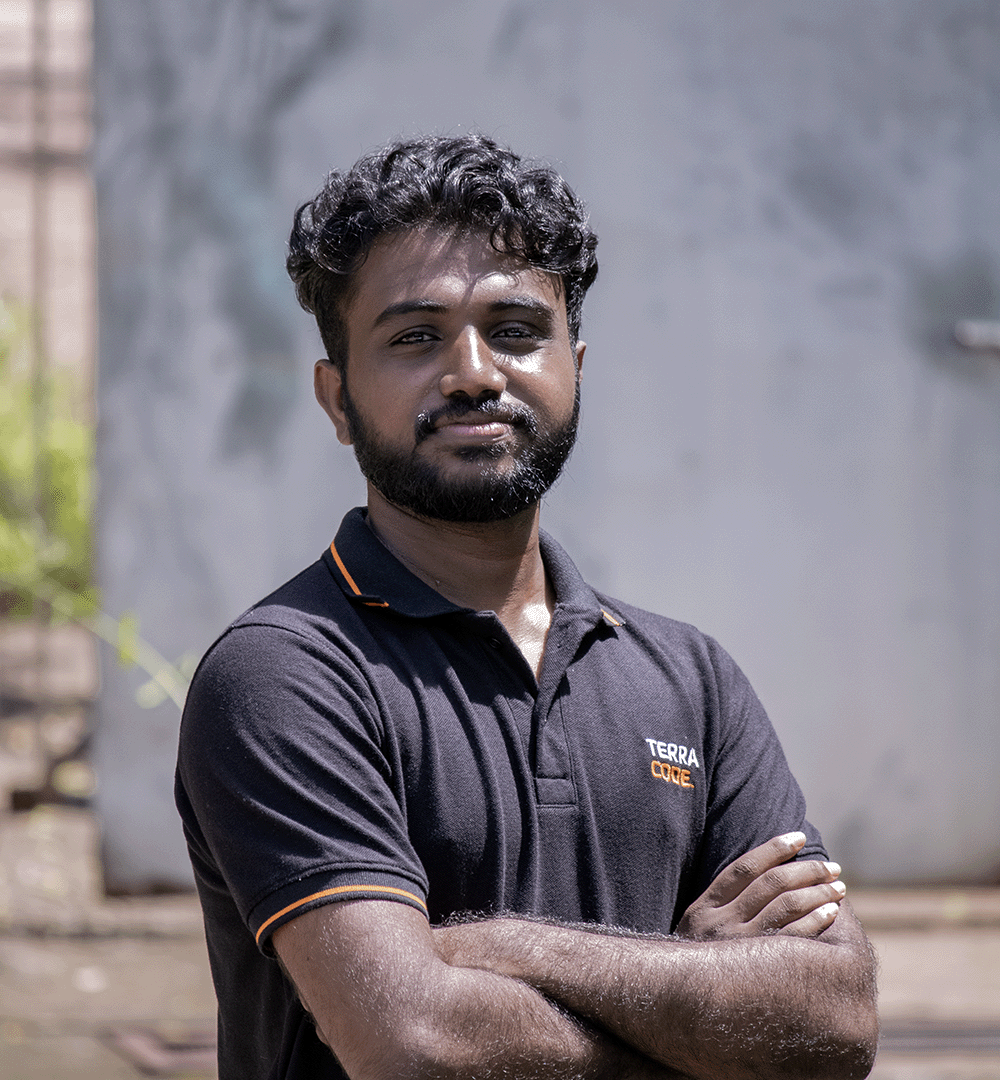
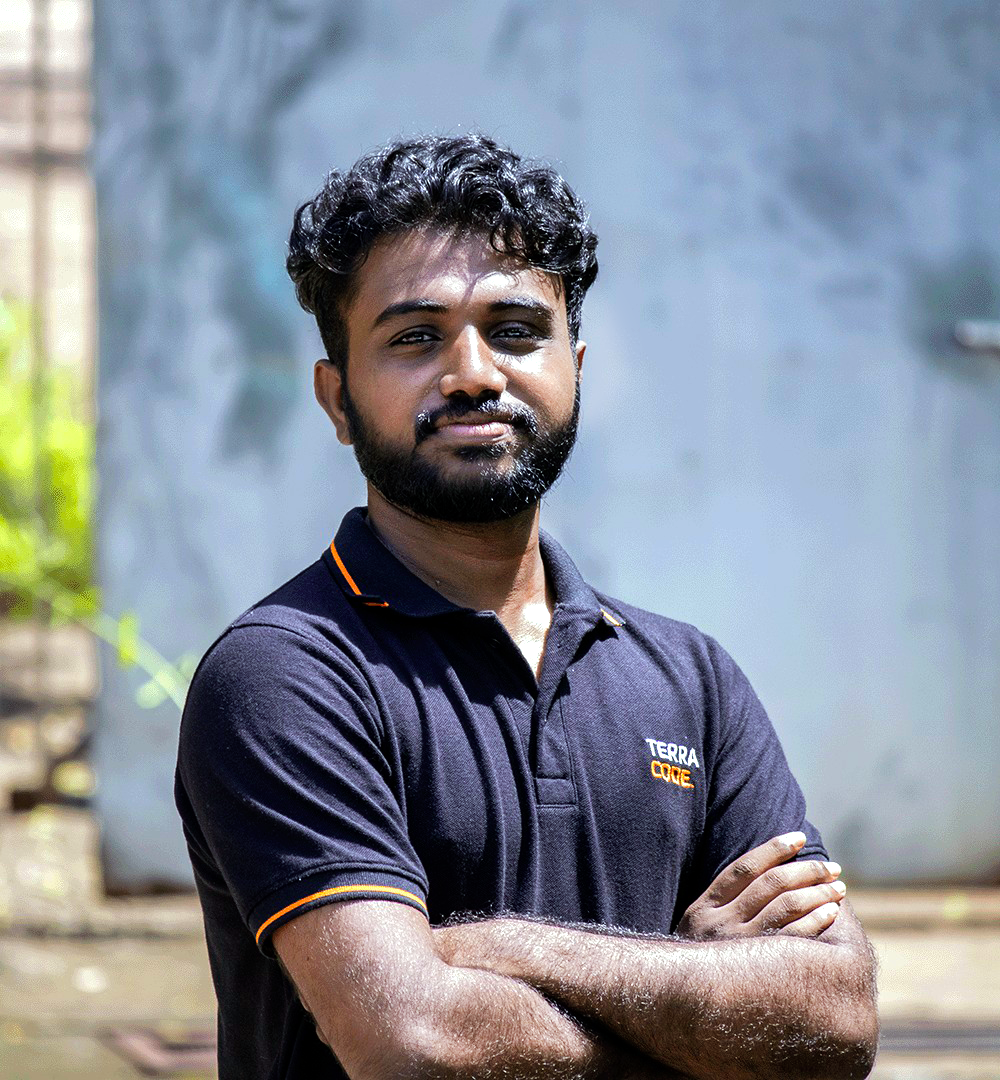
fixed pdf issues

diff --git a/src/components/pdfx/PaymentReceipt.tsx b/src/components/pdfx/PaymentReceipt.tsx
@@ -14,7 +14,24 @@ const styles = StyleSheet.create({
     color: '#1a1a1a',
     fontSize: 10,
     fontFamily: 'Helvetica',
+    position: 'relative',
   },
+
+  // 🔥 WATERMARK
+  watermark: {
+    position: 'absolute',
+    top: '30%',
+    left: '5%',
+    transform: 'rotate(-45deg)',
+    fontSize: 150,
+    color: '#000000',
+    opacity: 0.05,
+    fontWeight: 'bold',
+    zIndex: 0,
+    width: '100%',
+    textAlign: 'center',
+  },
+
   header: {
     flexDirection: 'row',
     justifyContent: 'space-between',
@@ -24,12 +41,15 @@ const styles = StyleSheet.create({
     borderBottomColor: '#f0f0f0',
     paddingBottom: 20,
   },
+
   logo: {
     width: 80,
   },
+
   headerRight: {
     alignItems: 'flex-end',
   },
+
   title: {
     fontSize: 28,
     color: '#1a1a1a',
@@ -37,16 +57,19 @@ const styles = StyleSheet.create({
     letterSpacing: 1,
     marginBottom: 4,
   },
+
   invoiceNumber: {
     fontSize: 11,
     color: '#FDA10A',
     fontWeight: 'bold',
   },
+
   billToSection: {
     flexDirection: 'row',
     justifyContent: 'space-between',
     marginBottom: 40,
   },
+
   sectionTitle: {
     fontSize: 9,
     fontWeight: 'bold',
@@ -55,12 +78,15 @@ const styles = StyleSheet.create({
     textTransform: 'uppercase',
     letterSpacing: 1,
   },
+
   billToBox: {
     width: '50%',
   },
+
   detailsBox: {
     width: '40%',
   },
+
   infoRow: {
     flexDirection: 'row',
     justifyContent: 'space-between',
@@ -69,19 +95,23 @@ const styles = StyleSheet.create({
     borderBottomColor: '#f0f0f0',
     paddingBottom: 2,
   },
+
   infoLabel: {
     color: '#666666',
     fontSize: 9,
   },
+
   infoValue: {
     fontWeight: 'bold',
     color: '#1a1a1a',
     fontSize: 9,
   },
-  // Table Styles
+
+  // Table
   table: {
     marginTop: 10,
   },
+
   tableHeader: {
     flexDirection: 'row',
     backgroundColor: '#f8f8f8',
@@ -90,12 +120,14 @@ const styles = StyleSheet.create({
     alignItems: 'center',
     height: 30,
   },
+
   tableHeaderText: {
     fontSize: 9,
     fontWeight: 'bold',
     color: '#666666',
     textTransform: 'uppercase',
   },
+
   tableRow: {
     flexDirection: 'row',
     borderBottomWidth: 0.5,
@@ -103,51 +135,41 @@ const styles = StyleSheet.create({
     alignItems: 'center',
     minHeight: 40,
   },
+
   colDescription: {
     width: '75%',
     paddingLeft: 10,
   },
+
   colAmount: {
     width: '25%',
     textAlign: 'right',
     paddingRight: 10,
   },
+
   itemTitle: {
     fontWeight: 'bold',
     fontSize: 10,
     marginBottom: 2,
   },
-  // Summary Styles
+
+  // Summary
   summaryContainer: {
     marginTop: 30,
     flexDirection: 'row',
     justifyContent: 'space-between',
   },
-  statusBox: {
-    width: '40%',
-    justifyContent: 'center',
-  },
-  paidBadge: {
-    borderWidth: 2,
-    borderColor: '#22c55e',
-    color: '#22c55e',
-    padding: 8,
-    borderRadius: 4,
-    fontSize: 14,
-    fontWeight: 'bold',
-    textAlign: 'center',
-    textTransform: 'uppercase',
-    width: 100,
-    opacity: 0.8,
-  },
+
   summaryBox: {
     width: '40%',
   },
+
   summaryRow: {
     flexDirection: 'row',
     justifyContent: 'space-between',
     paddingVertical: 4,
   },
+
   totalRow: {
     flexDirection: 'row',
     justifyContent: 'space-between',
@@ -156,15 +178,18 @@ const styles = StyleSheet.create({
     borderTopColor: '#1a1a1a',
     marginTop: 10,
   },
+
   totalLabel: {
     fontSize: 12,
     fontWeight: 'bold',
   },
+
   totalValue: {
     fontSize: 14,
     fontWeight: 'bold',
     color: '#1a1a1a',
   },
+
   footer: {
     position: 'absolute',
     bottom: 50,
@@ -177,6 +202,7 @@ const styles = StyleSheet.create({
     color: '#999999',
     fontSize: 8,
   },
+
   companyLine: {
     color: '#666666',
     fontSize: 9,
@@ -218,34 +244,45 @@ export const PaymentReceipt = ({
   return (
     <Document title={`Invoice - ${orderId}`}>
       <Page size="A4" style={styles.page}>
-        
+
+        {/* 🔥 WATERMARK */}
+        <Text style={styles.watermark}>PAID</Text>
+
         {/* Header */}
         <View style={styles.header}>
           <Image src="/logo.png" style={styles.logo} />
           <View style={styles.headerRight}>
             <Text style={styles.title}>INVOICE</Text>
-            <Text style={styles.invoiceNumber}>NO: {orderId ?? '—'}</Text>
+            <Text style={styles.invoiceNumber}>
+              NO: {orderId ?? '—'}
+            </Text>
           </View>
         </View>
 
-        {/* Bill To & Invoice Info */}
+        {/* Bill To */}
         <View style={styles.billToSection}>
           <View style={styles.billToBox}>
             <Text style={styles.sectionTitle}>Bill To</Text>
-            <Text style={{ fontWeight: 'bold', fontSize: 11, marginBottom: 4 }}>{customerName ?? 'Valued Customer'}</Text>
-            {companyName && <Text style={{ marginBottom: 2, color: '#444444' }}>{companyName}</Text>}
-            <Text style={{ color: '#666666' }}>{customerEmail ?? '—'}</Text>
+            <Text style={{ fontWeight: 'bold', fontSize: 11 }}>
+              {customerName ?? 'Valued Customer'}
+            </Text>
+            {companyName && <Text>{companyName}</Text>}
+            <Text>{customerEmail ?? '—'}</Text>
           </View>
+
           <View style={styles.detailsBox}>
             <Text style={styles.sectionTitle}>Invoice Details</Text>
+
             <View style={styles.infoRow}>
               <Text style={styles.infoLabel}>Date</Text>
               <Text style={styles.infoValue}>{date}</Text>
             </View>
+
             <View style={styles.infoRow}>
               <Text style={styles.infoLabel}>Order ID</Text>
               <Text style={styles.infoValue}>{orderId ?? '—'}</Text>
             </View>
+
             <View style={styles.infoRow}>
               <Text style={styles.infoLabel}>Transaction</Text>
               <Text style={styles.infoValue}>{paymentId ?? '—'}</Text>
@@ -253,61 +290,77 @@ export const PaymentReceipt = ({
           </View>
         </View>
 
-        {/* Items Table */}
+        {/* Table */}
         <View style={styles.table}>
           <View style={styles.tableHeader}>
-            <Text style={[styles.colDescription, styles.tableHeaderText]}>Description</Text>
-            <Text style={[styles.colAmount, styles.tableHeaderText]}>Amount</Text>
+            <Text style={[styles.colDescription, styles.tableHeaderText]}>
+              Description
+            </Text>
+            <Text style={[styles.colAmount, styles.tableHeaderText]}>
+              Amount
+            </Text>
           </View>
+
           <View style={styles.tableRow}>
             <View style={styles.colDescription}>
-              <Text style={styles.itemTitle}>{packageName ?? 'Service Package'}</Text>
-              <Text style={{ color: '#666666', fontSize: 8 }}>Standard digital service delivery</Text>
+              <Text style={styles.itemTitle}>
+                {packageName ?? 'Service Package'}
+              </Text>
+              <Text>Standard digital service delivery</Text>
             </View>
-            <Text style={styles.colAmount}>{currency ?? 'LKR'} {Number(amount).toLocaleString()}</Text>
+            <Text style={styles.colAmount}>
+              {currency ?? 'LKR'} {Number(amount).toLocaleString()}
+            </Text>
           </View>
         </View>
 
         {/* Summary */}
         <View style={styles.summaryContainer}>
-          <View style={styles.statusBox}>
-            <Text style={styles.paidBadge}>Paid</Text>
-          </View>
+          <View />
           <View style={styles.summaryBox}>
             <View style={styles.summaryRow}>
               <Text style={styles.infoLabel}>Subtotal</Text>
-              <Text style={styles.infoValue}>{currency ?? 'LKR'} {Number(amount).toLocaleString()}</Text>
+              <Text style={styles.infoValue}>
+                {currency ?? 'LKR'} {Number(amount).toLocaleString()}
+              </Text>
             </View>
+
             {discountCode && (
               <View style={styles.summaryRow}>
-                <Text style={styles.infoLabel}>Discount Applied</Text>
-                <Text style={{ ...styles.infoValue, color: '#22c55e' }}>-{currency ?? 'LKR'} 0.00</Text>
+                <Text style={styles.infoLabel}>Discount</Text>
+                <Text style={{ color: '#22c55e' }}>
+                  -{currency ?? 'LKR'} 0.00
+                </Text>
               </View>
             )}
+
             <View style={styles.totalRow}>
-              <Text style={styles.totalLabel}>Total Amount</Text>
-              <Text style={styles.totalValue}>{currency ?? 'LKR'} {Number(amount).toLocaleString()}</Text>
+              <Text style={styles.totalLabel}>Total</Text>
+              <Text style={styles.totalValue}>
+                {currency ?? 'LKR'} {Number(amount).toLocaleString()}
+              </Text>
             </View>
           </View>
         </View>
 
-        {/* Notes Section */}
+        {/* Notes */}
         {note && (
-          <View style={{ marginTop: 50 }}>
+          <View style={{ marginTop: 40 }}>
             <Text style={styles.sectionTitle}>Notes</Text>
-            <Text style={{ color: '#666666', lineHeight: 1.6, fontSize: 9 }}>{note}</Text>
+            <Text>{note}</Text>
           </View>
         )}
 
         {/* Footer */}
         <View style={styles.footer}>
           <Text style={styles.companyLine}>
-            Terracode Pvt Ltd  •  contact@terracodev.com  •  www.terracode.lk
+            Terracode Pvt Ltd • contact@terracodev.com • www.terracode.lk
           </Text>
           <Text>
             This is a computer-generated document. No signature required.
           </Text>
         </View>
+
       </Page>
     </Document>
   );

diff --git a/src/pages/Success-page/page.tsx b/src/pages/Success-page/page.tsx
@@ -120,7 +120,7 @@ export default function PaymentSuccessPage() {
                       note={customerDetails?.note}
                     />
                   }
-                  fileName={`Receipt-${search.order_id || 'unknown'}.pdf`}
+                  fileName={`terracode payment invoice - ${search.order_id || 'unknown'}.pdf`}
                 >
                   {({ loading }) => (
                     <button
